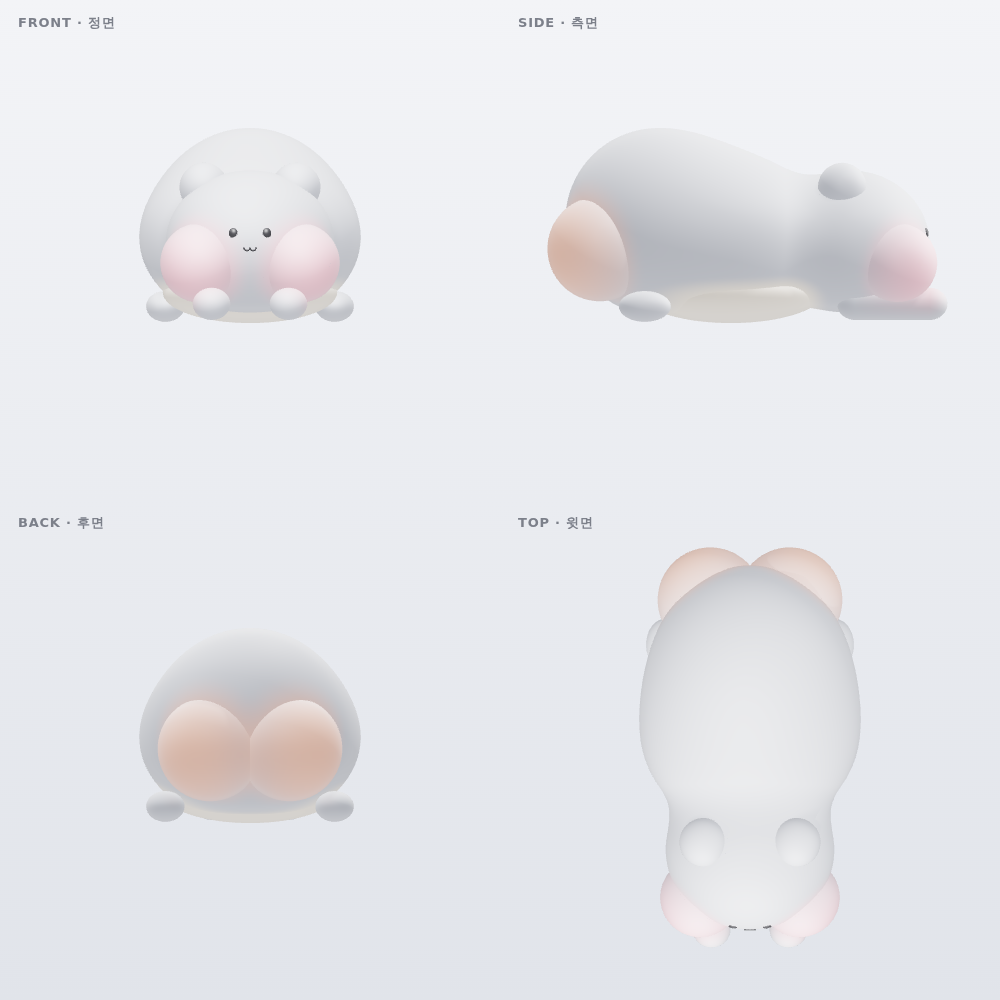
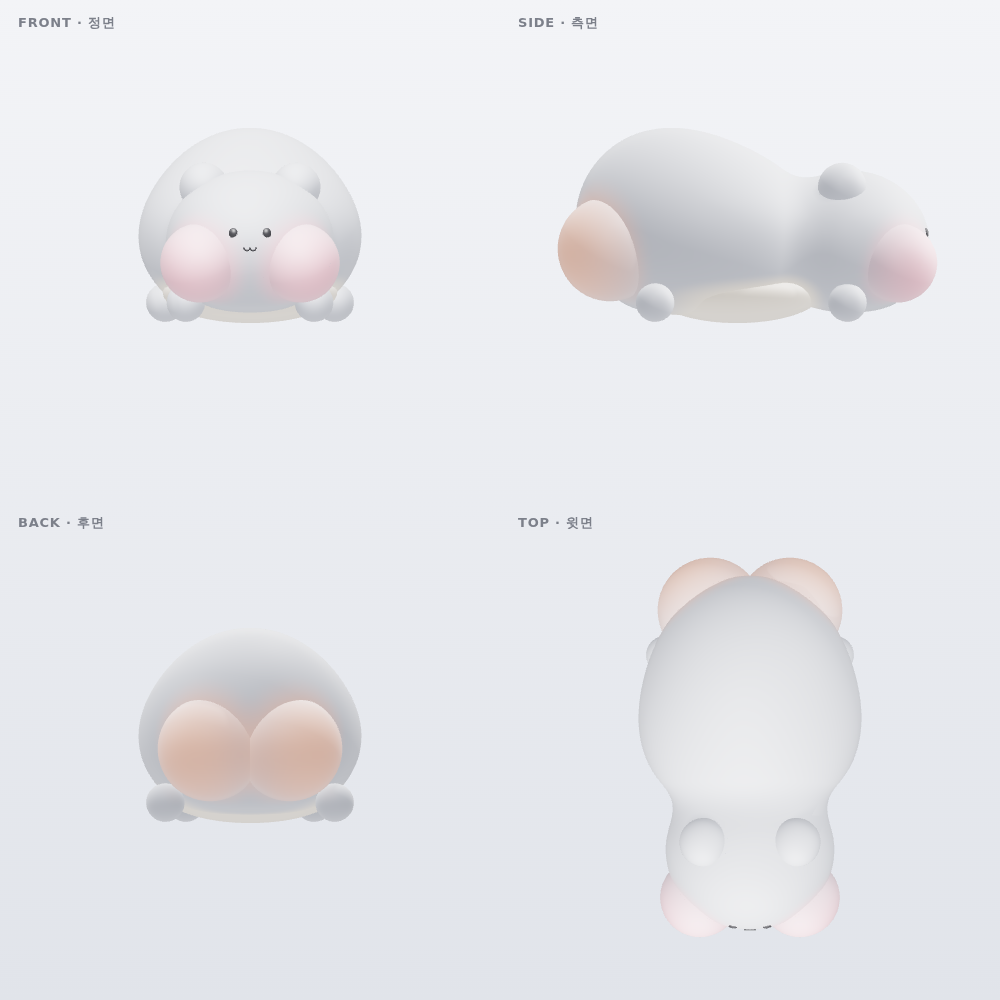
Make all four legs spheres and shorten the body slightly
Front paws become spheres at their old start point, moved out to x 0.50
so they keep a 0.04 gap from the cheeks; back feet become plain spheres.
Torso rz 0.82 -> 0.74 and rump/butt/feet/belly shifted forward 0.08.

Claude-Session: https://claude.ai/code/session_01KDvbePoQSCswEvmDQpWvZS

diff --git a/characters/ppomo-cat/ppomo-cat-3d.html b/characters/ppomo-cat/ppomo-cat-3d.html
@@ -96,16 +96,16 @@ import { RoomEnvironment } from 'three/addons/environments/RoomEnvironment.js';
 // ---------- shape table (lying loaf cat, units ≈ head radius 0.6, y up from the floor, z = forward) ----------
 const SHAPE = {
   head:  { x: 0, y: 0.60, z: 0.68, r: 0.62, sx: 1.06, sy: 0.92 },      // 머리 (몸 앞쪽에 붙음)
-  torso: { x: 0, y: 0.64, z: -0.28, rx: 0.86, ry: 0.66, rz: 0.82 },   // 몸통 (길게 누운 로프형)
-  rump:  { x: 0, y: 0.78, z: -0.82, r: 0.72 },                        // 엉덩이 쪽 볼륨 (등이 뒤로 갈수록 높게)
+  torso: { x: 0, y: 0.64, z: -0.28, rx: 0.86, ry: 0.66, rz: 0.74 },   // 몸통 (길게 누운 로프형)
+  rump:  { x: 0, y: 0.78, z: -0.74, r: 0.72 },                        // 엉덩이 쪽 볼륨 (등이 뒤로 갈수록 높게)
   cheek: { x: 0.39, y: 0.45, z: 1.05, r: 0.31 },                      // 볼주머니 ±x
   ear:   { x: 0.36, y: 1.04, z: 0.62, r: 0.19 },                     // 귀: 구 ±x
   eye:   { x: 0.13, y: 0.68, r: 0.038 },                              // 점 눈 ±x (z = 얼굴 표면)
   mouth: { y: 0.57 },
-  belly: { x: 0, y: 0.22, z: -0.25, rx: 0.68, ry: 0.24, rz: 0.72 },  // 배: 몸통 아래쪽 납작한 구
-  paw:   { x: 0.30, y: 0.13, z0: 0.72, z1: 1.30, r: 0.14 },           // 앞발: 앞으로 뻗은 캡슐 ±x
-  foot:  { x: 0.66, y: 0.11, z: -0.92, r: 0.15 },                     // 뒷발: 옆 뒤쪽 작은 nub ±x
-  butt:  { x: 0.31, y: 0.56, z: -1.27, r: 0.41 },                     // 엉덩이 두 볼 ±x
+  belly: { x: 0, y: 0.22, z: -0.20, rx: 0.68, ry: 0.24, rz: 0.66 },  // 배: 몸통 아래쪽 납작한 구
+  paw:   { x: 0.50, y: 0.14, z: 0.66, r: 0.15 },                     // 앞발: 구 ±x (볼과 0.04 띄움)
+  foot:  { x: 0.66, y: 0.14, z: -0.84, r: 0.15 },                     // 뒷발: 구 ±x                     // 뒷발: 옆 뒤쪽 작은 nub ±x
+  butt:  { x: 0.31, y: 0.56, z: -1.19, r: 0.41 },                     // 엉덩이 두 볼 ±x
 };
 const PAL = {
   body: '#B9BDC7',      // light neutral gray
@@ -331,23 +331,14 @@ for (const side of [-1, 1]) {
   ppomo.add(g);
 }
 
-// front paws — stubby capsules stretched forward along the floor
-for (const side of [-1, 1]) {
-  const s = SHAPE.paw, len = s.z1 - s.z0;
-  const g = part(side < 0 ? 'armL' : 'armR', s.x * side, s.y, (s.z0 + s.z1) / 2);
-  const m = mesh(new THREE.CapsuleGeometry(s.r, len, 12, 32), furMat);
-  m.rotation.x = Math.PI / 2;
-  m.scale.set(1.05, 1, 0.9);
-  g.add(m);
-  ppomo.add(g);
-}
-
-// back feet — small nubs at the rear sides
-for (const side of [-1, 1]) {
-  const s = SHAPE.foot;
-  const g = part(side < 0 ? 'footL' : 'footR', s.x * side, s.y, s.z);
-  g.add(ball(furMat, s.r, 1, 0.8, 1.35));
-  ppomo.add(g);
+// legs — four spheres: front paws beside the cheeks, back feet at the rear sides
+for (const [key, nameL, nameR] of [['paw', 'armL', 'armR'], ['foot', 'footL', 'footR']]) {
+  const s = SHAPE[key];
+  for (const side of [-1, 1]) {
+    const g = part(side < 0 ? nameL : nameR, s.x * side, s.y, s.z);
+    g.add(ball(furMat, s.r));
+    ppomo.add(g);
+  }
 }
 
 // butt — two round cheeks at the back, peach bloom from each
